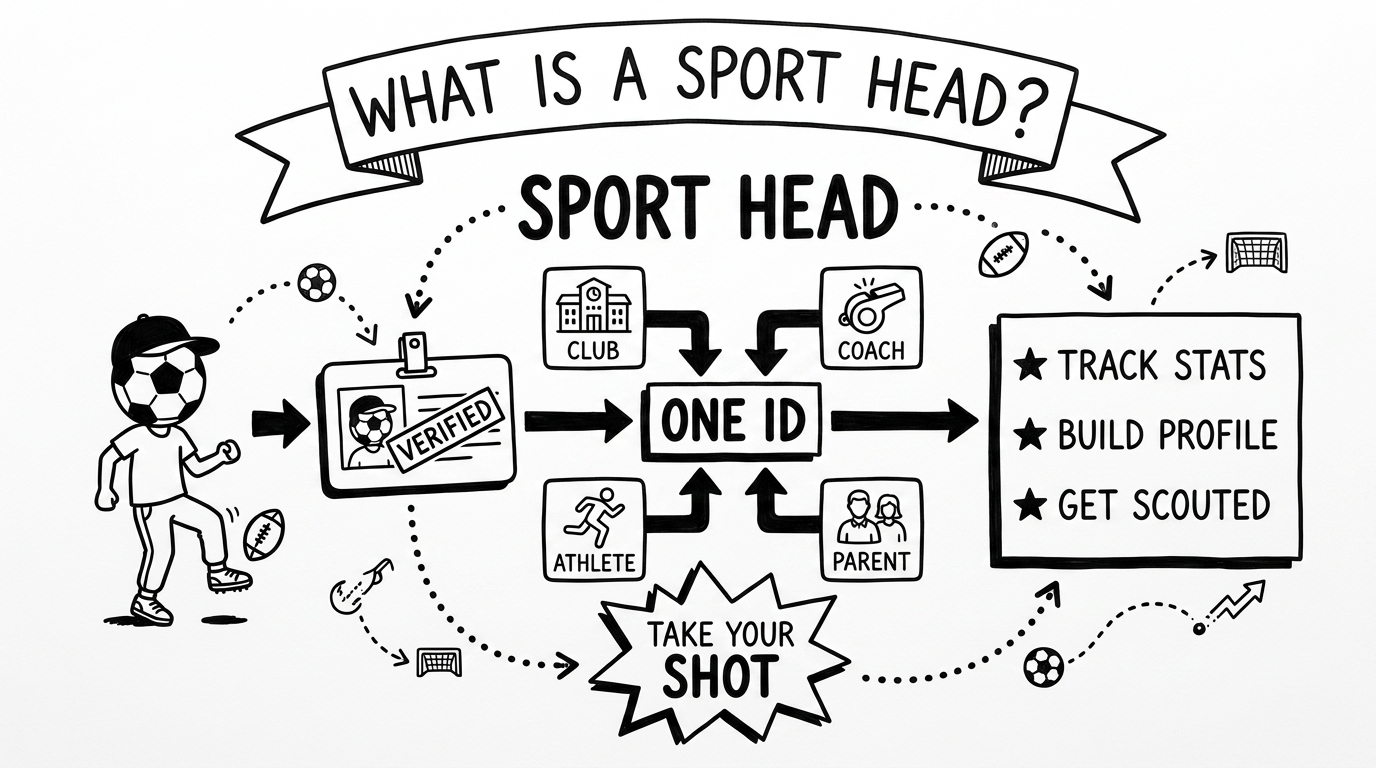
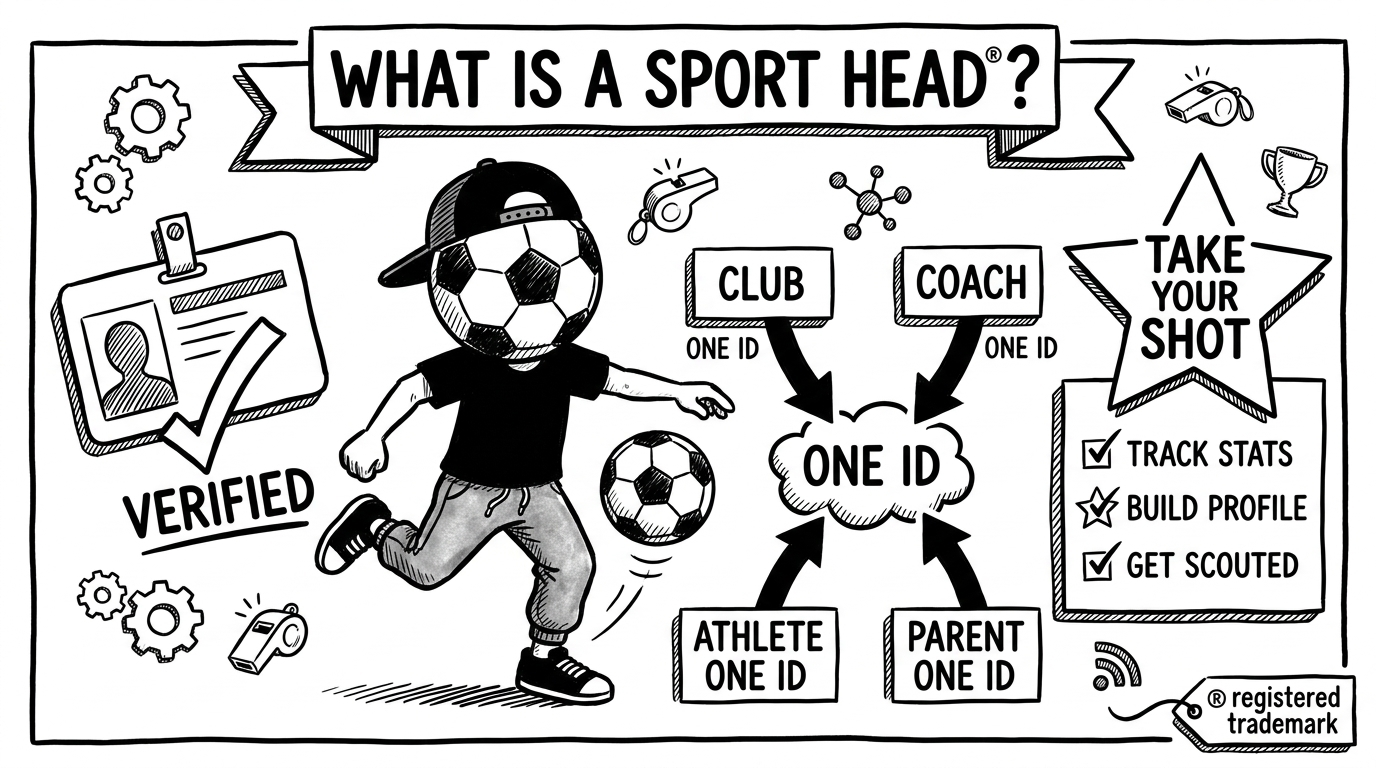
docs(illustration): trademarked Sport Head examples, drop old agents-box ones
Regenerates the two sporthead-alex calibration examples with the
Sport Head® registered-trademark mark, and removes the older
agents-box examples. README gallery trimmed to the two.

diff --git a/plugins/illustration/README.md b/plugins/illustration/README.md
@@ -137,12 +137,8 @@ A continuous `illustration:sporthead-alex` sketchnote storyboard explaining agen
 
 <table>
   <tr>
-    <td align="center"><img src="skills/sporthead-alex/assets/examples/01-sporthead-gold.png" width="420"><br><sub>“What is a Sport Head?” — gold accent</sub></td>
-    <td align="center"><img src="skills/sporthead-alex/assets/examples/02-sporthead-mono.png" width="420"><br><sub>“What is a Sport Head?” — mono</sub></td>
-  </tr>
-  <tr>
-    <td align="center"><img src="skills/sporthead-alex/assets/examples/03-agents-box-gold.png" width="420"><br><sub>“Agents in a box” — gold accent</sub></td>
-    <td align="center"><img src="skills/sporthead-alex/assets/examples/04-agents-box-mono.png" width="420"><br><sub>“Agents in a box” — mono</sub></td>
+    <td align="center"><img src="skills/sporthead-alex/assets/examples/01-sporthead-gold.png" width="420"><br><sub>“What is a Sport Head®?” — gold accent</sub></td>
+    <td align="center"><img src="skills/sporthead-alex/assets/examples/02-sporthead-mono.png" width="420"><br><sub>“What is a Sport Head®?” — mono</sub></td>
   </tr>
 </table>
 
